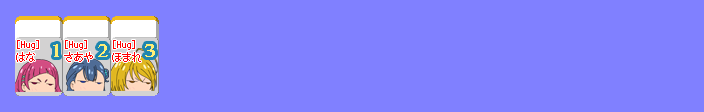
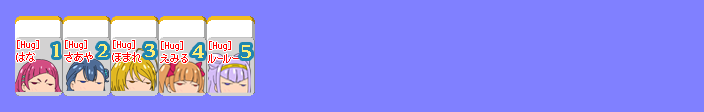
ルールー牌、えみる牌、トワイライト牌を追加　＆　実現不可能な役（オール白キュア、オール緑キュア）を削除　＆役名間違い（ドリームスターズ→スーパースターズ）を訂正

Changed region(s): [[0.2188, 0.1339, 0.375, 0.8571]]

diff --git a/CureJong/Rule04.html b/CureJong/Rule04.html
@@ -266,6 +266,13 @@
                     <div class="YakuPoint"><p>得点:5000点</p></div>
                 </div>
 
+                <div class="Yaku AllSeries">
+                    <h3>オールHugプリ</h3>
+                    <h4>役の成立条件:手牌全てが作品「ＨＵＧっと！プリキュア」に属している。</h4>
+                    <img src="img/Yaku/Yaku16_AllHugutto.png">
+                    <div class="YakuPoint"><p>得点:5000点</p></div>
+                </div>
+
                 <div class="left-face">
                 <img src="img/WebFace_Mirai1.png" >
                 </div>
@@ -314,7 +321,7 @@
                     <div class="YakuPoint"><p>得点:10000点</p></div>
                 </div>
  
-                <div class="Yaku AllColor">
+                <!-- <div class="Yaku AllColor">
                     <h3>オール白キュア</h3>
                     <h4>役の成立条件:手牌全てが「白キュア(下図)」のいずれかである。</h4>
                     <img src="img/Yaku/Yaku30_AllWhiteCure.png">
@@ -326,7 +333,7 @@
                     <h4>役の成立条件:手牌全てが「緑キュア(下図)」のいずれかである。</h4>
                     <img src="img/Yaku/Yaku31_AllGreenCure.png">
                     <div class="YakuPoint"><p>得点:20000点</p></div>
-                </div>
+                </div> -->
  
                 <div class="Yaku AllColor">
                     <h3>オール紫キュア</h3>
@@ -344,12 +351,20 @@
                     <p>※映画「プリキュアオールスターズDX（パート１）」に登場したキャラを全て揃えます</p>
                 </div>
 
-                <div class="Yaku Special">
+                <!-- <div class="Yaku Special">
                     <h3>プリキュアドリームスターズ！</h3>
                     <h4>役の成立条件:手牌に以下の牌が全て含まれている</h4>
                     <img src="img/Yaku/Yaku02_DreamStars.png">
                     <div class="YakuPoint"><p>得点:9000点</p></div>
-                    <p>※映画「プリキュアドリームスターズ」に登場したキャラを全て揃えます</p>
+                    <p>※映画「プリキュアドリームスターズ！」に登場したキャラを全て揃えます</p>
+                </div> -->
+
+                <div class="Yaku Special">
+                    <h3>プリキュアスーパースターズ！</h3>
+                    <h4>役の成立条件:手牌に以下の牌が全て含まれている</h4>
+                    <img src="img/Yaku/Yaku03_SuperStars.png">
+                    <div class="YakuPoint"><p>得点:9000点</p></div>
+                    <p>※映画「プリキュアスーパースターズ！」に登場したキャラを全て揃えます</p>
                 </div>
 
                 <div class="Yaku Special">

diff --git a/CureJong/Rule02.html b/CureJong/Rule02.html
@@ -141,8 +141,8 @@
                     <img src="img/WebFace_Riko1.png">
                 </div>
                 <div class="talking-Message Riko">
-                    このように、通常牌は全部で53種、ボーナス牌は12種、合計で53+12=65種の牌があるわ。
-                    そしてそれぞれの牌は4枚ずつ用意されてるの。だから65×4=260枚の牌を使って遊ぶのよ。
+                    このように、通常牌は全部で55種、ボーナス牌は13種、合計で55+13=68種の牌があるわ。
+                    そしてそれぞれの牌は4枚ずつ用意されてるの。だから68×4=272枚の牌を使って遊ぶのよ。
                 </div>
                 <div class="end-talk"></div>                
                 <div class="left-face">
@@ -225,7 +225,7 @@
                             <tr>
                               <td>Go!プリンセスプリキュア</td>
                               <td>1～4</td>
-                              <td>なし</td>
+                              <td>0</td>
                               <td></td>
                             </tr>
                             <tr>

diff --git a/CureJong/style.css b/CureJong/style.css
@@ -300,6 +300,7 @@ table.tableType1 td{
 }
 
 div#ChangeLog {
+    padding:3px;
     width: 1000px;
     height: 200px;
     border:solid 2px #4d4b46;
